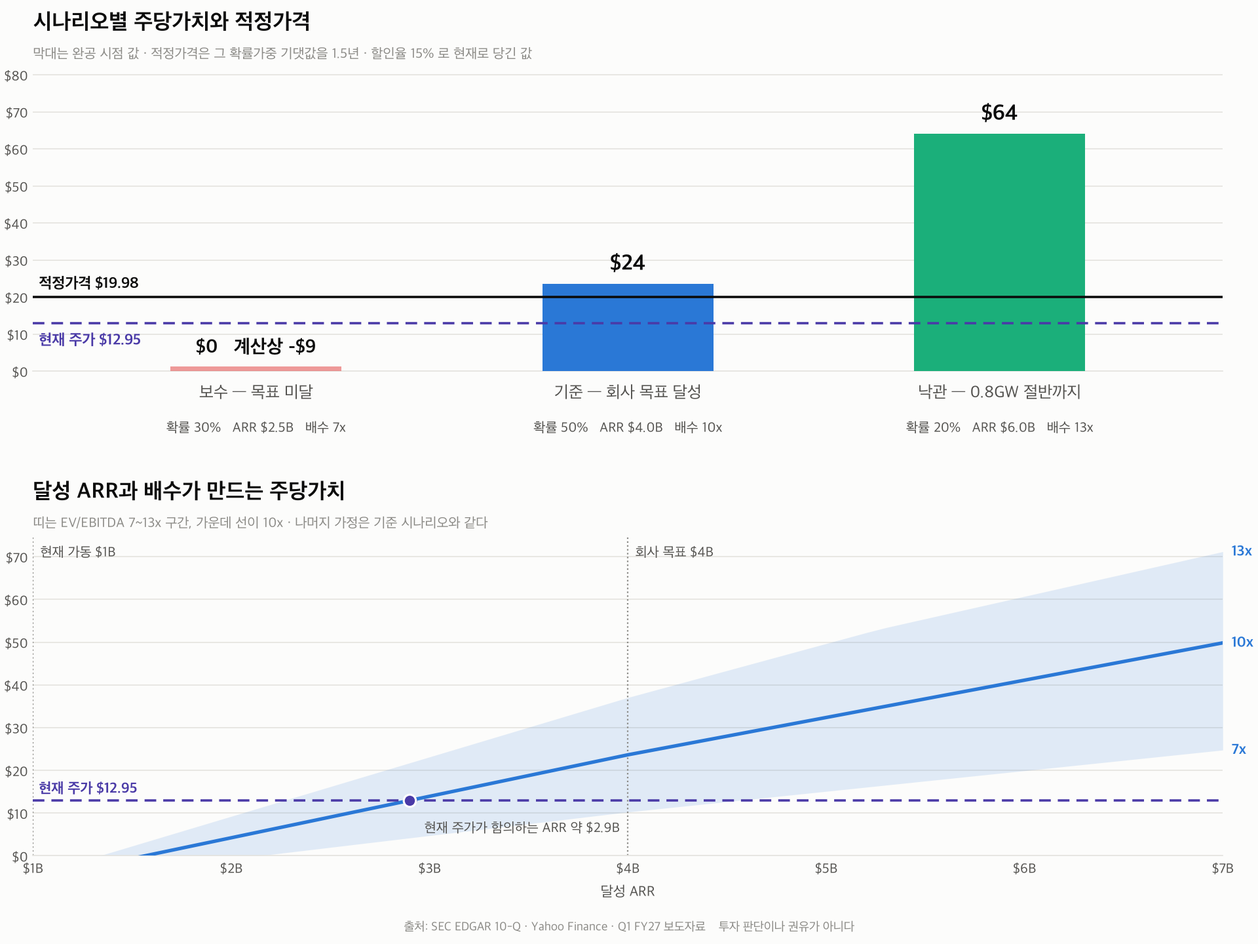
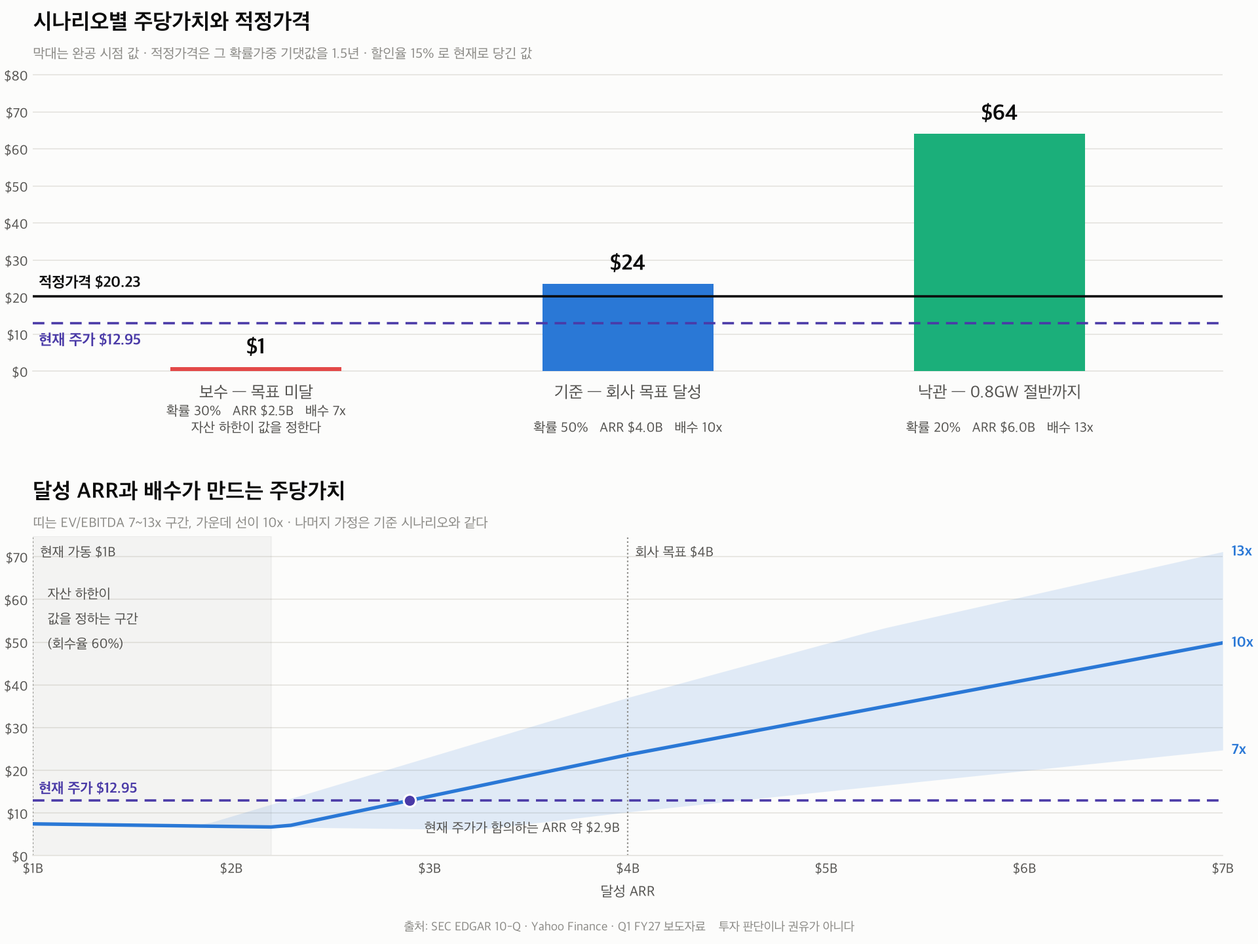
자산가치 하한을 넣는다 — 보수 시나리오의 $0 은 모델의 구멍이었다
사업이 계획대로 안 되면 EBITDA 배수는 무너지지만 데이터센터와 GPU는 남는다.
그런데 기업가치를 EBITDA x 배수로만 잡으니 보수 시나리오에서 EV $8.8B 가
순차입 $12.9B 보다 작아 자기자본이 음수로 나왔고, 유한책임이라 0으로 잘랐다.
그 $0 은 "자산이 0원"이라는 뜻이 아니라 하한을 안 넣은 결과였다.

  기업가치 = max(EBITDA x 배수, (현재 유형자산 + CAPEX) x 회수율)

회수율 기본값 60%. 토지·건물·전력 계약은 잘 받지만 중고 GPU는 수요가 식은
국면에서 특히 안 받으므로 둘의 중간쯤으로 뒀다. 공시에서 읽을 수 없는 값이라
--recovery 로 열어 두고, 58% 아래면 다시 0이 된다는 것도 README에 적는다.

  보수 $0 → $1 · 적정가격 $19.98 → $20.23

곡선에도 하한이 값을 정하는 구간을 띠로 표시한다. 확률 함의 역산은 하단이
0이 아닌 경우도 풀 수 있게 일반화했다.

diff --git a/docs/index.html b/docs/index.html
@@ -42,10 +42,10 @@
 <div class="wrap">
   <h1>IREN 매출 구조와 적정가격</h1>
   <p class="sub">비트코인 채굴에서 AI 데이터센터로 옮겨 가는 회사를, 공시된 숫자로만 뜯어본다.</p>
-  <p class="stamp">2026-11-25 12:50 UTC · 출처 SEC EDGAR · Yahoo Finance ·
+  <p class="stamp">2026-11-25 13:00 UTC · 출처 SEC EDGAR · Yahoo Finance ·
      <a href="https://github.com/gwonyongjin94-ui/IREN-Revenue-structure">저장소</a></p>
 
-  <div class="cards"><div class="card"><div class="k">주가</div><div class="v">$12.95</div><div class="n">2026-11-24</div></div><div class="card"><div class="k">시가총액</div><div class="v">$5.50B</div><div class="n">424M주</div></div><div class="card"><div class="k">EV</div><div class="v">$9.9B</div><div class="n">순차입 $4.4B 포함</div></div><div class="card"><div class="k">FY27Q1 매출</div><div class="v">$228M</div><div class="n">AI 클라우드 88%</div></div><div class="card"><div class="k">수주잔고</div><div class="v">$20.3B</div><div class="n">2026-09-30</div></div><div class="card"><div class="k">가동 ARR</div><div class="v">약 $1B</div><div class="n">목표 $4B</div></div><div class="card"><div class="k">EV / 목표 ARR</div><div class="v">2.5x</div><div class="n">목표 달성을 전제한 값</div></div><div class="card"><div class="k">남은 CAPEX</div><div class="v">$15B</div><div class="n">미확보 $6B</div></div><div class="card"><div class="k">적정가격</div><div class="v">$19.98</div><div class="n">현재가 대비 +54% · 범위 $0~$64</div></div></div>
+  <div class="cards"><div class="card"><div class="k">주가</div><div class="v">$12.95</div><div class="n">2026-11-24</div></div><div class="card"><div class="k">시가총액</div><div class="v">$5.50B</div><div class="n">424M주</div></div><div class="card"><div class="k">EV</div><div class="v">$9.9B</div><div class="n">순차입 $4.4B 포함</div></div><div class="card"><div class="k">FY27Q1 매출</div><div class="v">$228M</div><div class="n">AI 클라우드 88%</div></div><div class="card"><div class="k">수주잔고</div><div class="v">$20.3B</div><div class="n">2026-09-30</div></div><div class="card"><div class="k">가동 ARR</div><div class="v">약 $1B</div><div class="n">목표 $4B</div></div><div class="card"><div class="k">EV / 목표 ARR</div><div class="v">2.5x</div><div class="n">목표 달성을 전제한 값</div></div><div class="card"><div class="k">남은 CAPEX</div><div class="v">$15B</div><div class="n">미확보 $6B</div></div><div class="card"><div class="k">적정가격</div><div class="v">$20.23</div><div class="n">현재가 대비 +56% · 범위 $1~$64</div></div></div>
 
   <section><h2>매출 구성의 교체</h2><p>두 분기 만에 채굴이 사라지고 AI 클라우드가 매출의 88%가 됐다. 아래 패널의 비트코인 가격과 비교하면, 채굴 매출 감소분의 대부분은 가격이 아니라 스스로 전력을 돌린 결과다.</p><img src="assets/segments.png" alt="매출 구성의 교체" loading="lazy"></section><section><h2>수주잔고 $20.3B 의 구성</h2><p>잔고의 60%는 아직 개시되지 않은 임대 계약이다. 계약은 됐지만 데이터센터를 지어야 매출이 된다.</p><img src="assets/backlog.png" alt="수주잔고 $20.3B 의 구성" loading="lazy"></section><section><h2>ARR = MW(IT) x MW당 단가</h2><p>회사 목표가 함의하는 단가와 실제 체결 단가가 60% 수준으로 어긋난다. ARR 추정의 가장 큰 미지수다.</p><img src="assets/arr_model.png" alt="ARR = MW(IT) x MW당 단가" loading="lazy"></section><section><h2>자금 — $15B 중 $6B 이 열려 있다</h2><p>차입 $10B 중 3분의 2가 전환사채다. 주가가 전환가에서 멀어지면 그냥 빚으로 남는다.</p><img src="assets/funding.png" alt="자금 — $15B 중 $6B 이 열려 있다" loading="lazy"></section><section><h2>적정가격</h2><p>세 결말에 확률을 붙여 기댓값을 내고, 완공까지 1.5년을 15%로 할인한 값이다. 레버리지가 높아 가정이 조금만 움직여도 결과가 크게 흔들린다.</p><img src="assets/valuation.png" alt="적정가격" loading="lazy"></section>
 

diff --git a/valuation.py b/valuation.py
@@ -52,6 +52,17 @@ OPEX_SLOPE = 0.06   # 목표 ARR을 넘는 매출 1달러당 추가 현금비용
 
 VEST_SHARES = 36.8e6   # 스톡옵션 + RSU. 전환사채는 따로 다룬다
 
+# 자산가치 하한. 사업이 계획대로 안 되면 EBITDA 배수는 무너지지만 데이터센터와
+# GPU는 남는다. 그래서 기업가치의 바닥을 '완공 시점 유형자산 x 회수율'로 깐다.
+#
+# 회수율은 공시에서 읽을 수 없고, 이 저장소에서 확률 다음으로 결과를 크게
+# 흔드는 가정이다. 토지·건물·전력 계약은 잘 받지만 중고 GPU는 수요가 식은
+# 국면에서 특히 안 받으므로 둘의 중간쯤인 60%를 기본값으로 둔다.
+#
+# 보수 시나리오에서 이 값이 58% 아래면 주당가치가 다시 0이 된다. 그만큼
+# 예민하므로 --recovery 로 바꿔 볼 수 있게 열어 둔다.
+ASSET_RECOVERY = 0.60
+
 # 시나리오 값은 전부 '완공 시점' 값이다. 거기까지 가는 데 걸리는 시간을 현재로
 # 당겨와야 오늘의 적정가격이 된다. 회사는 $4B ARR 달성을 2027년 1~2월로 제시
 # 했지만 그건 0.3GW 프로그램 얘기고, 그 매출이 온전히 한 해를 돌아 실적으로
@@ -107,10 +118,13 @@ class Result:
     shares: float
     per_share: float
     converts_dilute: bool
+    floor_bound: bool = False   # 기업가치가 EBITDA가 아니라 자산 하한으로 정해졌나
 
 
 def evaluate(s: Scenario, net_debt_now: float, shares_now: float,
-             price: float, converts: tuple[float, float]) -> Result:
+             price: float, converts: tuple[float, float],
+             assets_now: float = 0.0,
+             recovery: float = ASSET_RECOVERY) -> Result:
     opex = OPEX_AT_TARGET + max(s.arr - disc.ARR_TARGET.value, 0) * OPEX_SLOPE
     ebitda = s.arr * s.margin - opex
 
@@ -121,7 +135,13 @@ def evaluate(s: Scenario, net_debt_now: float, shares_now: float,
     shares = shares_now + VEST_SHARES + (s.equity_raise / price if price else 0)
 
     principal, conv_shares = converts
-    enterprise = ebitda * s.multiple
+    # 계속기업 가치와 청산 바닥 중 큰 쪽. 둘 중 무엇이 값을 정했는지 남긴다 —
+    # 바닥이 이겼다는 건 "이 시나리오에서는 사업이 아니라 자산이 전부"라는 뜻이고,
+    # 그 결론은 회수율 가정 하나에 매달려 있으므로 드러나야 한다.
+    going = ebitda * s.multiple
+    floor = (assets_now + s.capex) * recovery
+    enterprise = max(going, floor)
+    floor_bound = floor > going
     equity = enterprise - net_debt
     per_share = equity / shares if shares else 0.0
 
@@ -134,7 +154,8 @@ def evaluate(s: Scenario, net_debt_now: float, shares_now: float,
         shares += conv_shares
         per_share = equity / shares
 
-    return Result(s, ebitda, net_debt, enterprise, equity, shares, per_share, dilute)
+    return Result(s, ebitda, net_debt, enterprise, equity, shares, per_share,
+                  dilute, floor_bound)
 
 
 def discount(value: float) -> float:
@@ -163,22 +184,21 @@ def implied_downside(results: list[Result], price: float) -> float:
     보수 시나리오의 확률만 움직이고, 나머지 둘의 상대 비중은 그대로 둔다.
     그러면 미지수가 하나라 바로 풀린다.
     """
-    downside = results[0]
+    down = max(results[0].per_share, 0.0)
     rest = results[1:]
     weight = sum(r.scenario.prob for r in rest)
     if weight <= 0:
         return float("nan")
-    upside = sum(max(r.per_share, 0) * r.scenario.prob for r in rest) / weight
-    if upside <= 0:
+    up = sum(max(r.per_share, 0) * r.scenario.prob for r in rest) / weight
+    if up <= down:
         return float("nan")
-    # price = (1-p) x upside 를 할인한 값. downside 의 주당가치는 0 이므로 빠진다
-    share_of_upside = price / discount(upside)
-    return max(0.0, min(1.0, 1 - share_of_upside)) if max(downside.per_share, 0) == 0 \
-        else float("nan")
+    # discount(p x down + (1-p) x up) = price 를 p 에 대해 푼다
+    target = price * (1 + DISCOUNT_RATE) ** HORIZON_YEARS
+    return max(0.0, min(1.0, (target - up) / (down - up)))
 
 
 def per_share_curve(arrs, multiple, base: Scenario, net_debt_now, shares_now,
-                    price, converts):
+                    price, converts, assets_now=0.0, recovery=ASSET_RECOVERY):
     out = []
     for arr in arrs:
         # 곡선 위에서는 CAPEX가 ARR과 같이 움직인다. 자본집약도(ARR 1달러당
@@ -187,12 +207,13 @@ def per_share_curve(arrs, multiple, base: Scenario, net_debt_now, shares_now,
         s = Scenario(base.name, arr, base.margin, multiple, capex,
                      base.prepay_share, base.equity_raise, base.prob,
                      base.color, "")
-        out.append(evaluate(s, net_debt_now, shares_now, price, converts).per_share)
+        out.append(evaluate(s, net_debt_now, shares_now, price, converts,
+                            assets_now, recovery).per_share)
     return out
 
 
 def draw(results, price, price_date, net_debt_now, shares_now, converts,
-         multiples, out_path):
+         multiples, out_path, assets_now=0.0, recovery=ASSET_RECOVERY):
     fig, (top, bottom) = idata.figure([1.0, 1.05], height=9.0)
 
     # --- 위: 시나리오 ----------------------------------------------------
@@ -217,7 +238,8 @@ def draw(results, price, price_date, net_debt_now, shares_now, converts,
                      color=idata.INK_PRIMARY)
         top.annotate(idata.tex_safe(
             f"확률 {r.scenario.prob*100:,.0f}%   ARR ${r.scenario.arr/B:,.1f}B"
-            f"   배수 {r.scenario.multiple:,.0f}x"),
+            f"   배수 {r.scenario.multiple:,.0f}x"
+            + ("\n자산 하한이 값을 정한다" if r.floor_bound else "")),
             (x, 0), xycoords=("data", "axes fraction"), xytext=(0, -42),
             textcoords="offset points", ha="center", fontsize=9.5,
             color=idata.INK_SECONDARY, annotation_clip=False)
@@ -248,7 +270,7 @@ def draw(results, price, price_date, net_debt_now, shares_now, converts,
     arrs = [x * 1e8 for x in range(10, 71)]
     xs_b = [a / B for a in arrs]
     curves = {m: per_share_curve(arrs, m, base, net_debt_now, shares_now,
-                                 price, converts)
+                                 price, converts, assets_now, recovery)
               for m in multiples}
     lo, mid, hi = (curves[m] for m in sorted(curves))
 
@@ -265,6 +287,23 @@ def draw(results, price, price_date, net_debt_now, shares_now, converts,
         bottom.annotate(name, (xs_b[-1], values[-1]), xytext=(6, -3),
                         textcoords="offset points", fontsize=10,
                         color=idata.CLOUD_COLOR, fontweight="bold")
+
+    bound = [evaluate(Scenario(base.name, a, base.margin, sorted(multiples)[1],
+                               base.capex * a / base.arr, base.prepay_share,
+                               base.equity_raise, base.prob, base.color, ""),
+                      net_debt_now, shares_now, price, converts,
+                      assets_now, recovery).floor_bound
+             for a in arrs]
+    if any(bound):
+        edge = xs_b[max(i for i, b in enumerate(bound) if b)]
+        bottom.axvspan(xs_b[0], edge, color=idata.INK_MUTED, alpha=0.07, zorder=1)
+        # 라벨은 띠 안쪽 빈 곳에 세로로 앉힌다. 띠 아래에 가로로 깔면 축 밖으로
+        # 삐져나가 잘린다
+        bottom.annotate(idata.tex_safe(
+            f"자산 하한이\n값을 정하는 구간\n(회수율 {recovery*100:,.0f}%)"),
+            (xs_b[0], 0.86), xycoords=("data", "axes fraction"),
+            xytext=(10, 0), textcoords="offset points", ha="left", va="top",
+            fontsize=9.5, color=idata.INK_SECONDARY, linespacing=1.5)
 
     bottom.axhline(price, color=idata.PRICE_COLOR, linewidth=1.6,
                    linestyle=(0, (5, 3)), zorder=5)
@@ -313,6 +352,8 @@ def main():
     ap.add_argument("--refresh", action="store_true")
     ap.add_argument("--multiples", default="7,10,13",
                     help="아래 패널에 그릴 EV/EBITDA 배수")
+    ap.add_argument("--recovery", type=float, default=ASSET_RECOVERY,
+                    help="자산 하한에 쓰는 회수율 (0~1)")
     ap.add_argument("--out", default=str(idata.OUT_DIR / "valuation.png"))
     args = ap.parse_args()
 
@@ -326,11 +367,13 @@ def main():
     conv_shares = dil.get("Convertible notes", 0.0)
     converts = (conv_principal, conv_shares)
 
-    results = [evaluate(s, bs["net_debt"], shares_now, price, converts)
+    assets_now = bs["ppe"]
+    results = [evaluate(s, bs["net_debt"], shares_now, price, converts,
+                        assets_now, args.recovery)
                for s in scenarios()]
     multiples = [float(x) for x in args.multiples.split(",")]
     draw(results, price, price_date, bs["net_debt"], shares_now, converts,
-         multiples, args.out)
+         multiples, args.out, assets_now, args.recovery)
 
     cap = price * shares_now
     ev = cap + bs["net_debt"]
@@ -350,7 +393,8 @@ def main():
     print(f"  평균 전환가       ${conv_principal/conv_shares:,.2f}"
           f"  (현재 주가의 {conv_principal/conv_shares/price:,.1f}배)")
 
-    print(f"\n시나리오 (현금 영업비용 목표 구간 ${OPEX_AT_TARGET/B:,.2f}B/년 가정)")
+    print(f"\n시나리오 (현금 영업비용 목표 구간 ${OPEX_AT_TARGET/B:,.2f}B/년, "
+          f"자산 회수율 {args.recovery*100:,.0f}% 가정)")
     for r in results:
         s = r.scenario
         print(f"\n  {s.name}")
@@ -358,7 +402,11 @@ def main():
               f"배수 {s.multiple:,.1f}x · CAPEX ${s.capex/B:,.0f}B · "
               f"선급금 {s.prepay_share*100:,.0f}% · 증자 ${s.equity_raise/B:,.1f}B")
         print(f"    자본집약도 ARR 1달러당 ${s.capex/s.arr:,.2f} · "
-              f"자기자본이 0이 되는 배수 {r.net_debt/r.ebitda:,.1f}x")
+              f"계속기업 기준 자기자본이 0이 되는 배수 {r.net_debt/r.ebitda:,.1f}x")
+        floor = (assets_now + s.capex) * args.recovery
+        print(f"    계속기업 EV ${r.ebitda*s.multiple/B:,.1f}B vs "
+              f"자산 하한 ${floor/B:,.1f}B"
+              f"  ({'하한 적용' if r.floor_bound else '계속기업 적용'})")
         print(f"    EBITDA ${r.ebitda/B:,.2f}B → EV ${r.enterprise/B:,.1f}B "
               f"− 순차입 ${r.net_debt/B:,.1f}B = 자기자본 ${r.equity/B:,.1f}B")
         print(f"    주식수 {r.shares/1e6:,.0f}M → 주당 ${r.per_share:,.2f} "

diff --git a/snapshot.py b/snapshot.py
@@ -33,7 +33,8 @@ def build(refresh: bool = False) -> str:
     conv_principal = sum(d.principal for d in debts if d.kind == "전환사채")
     conv_shares = dil.get("Convertible notes", 0.0)
     converts = (conv_principal, conv_shares)
-    results = [val.evaluate(s, bs["net_debt"], shares, price, converts)
+    results = [val.evaluate(s, bs["net_debt"], shares, price, converts,
+                                bs["ppe"])
                for s in val.scenarios()]
     band = sorted(max(r.per_share, 0) for r in results)
     fair = val.fair_value(results)

diff --git a/build_site.py b/build_site.py
@@ -119,7 +119,8 @@ def build(repo: str, refresh: bool = False) -> str:
 
     converts = (sum(d.principal for d in debts if d.kind == "전환사채"),
                 dil.get("Convertible notes", 0.0))
-    results = [val.evaluate(s, bs["net_debt"], shares, price, converts)
+    results = [val.evaluate(s, bs["net_debt"], shares, price, converts,
+                                bs["ppe"])
                for s in val.scenarios()]
     band = sorted(max(r.per_share, 0) for r in results)
     fair = val.fair_value(results)

diff --git a/README.md b/README.md
@@ -213,10 +213,17 @@ FY2027Q1 한 분기에 D&A $148M, 주식보상 $106M, 영업손실 $186M, 순손
 
 ```
 EBITDA       = 달성 ARR x 매출총이익률 − 현금 영업비용
+기업가치     = max(EBITDA x 배수,  (현재 유형자산 + CAPEX) x 회수율)
 순차입(완공) = 현재 순차입 + CAPEX x (1 − 선급금 비중) − 증자
-자기자본     = EBITDA x 배수 − 순차입(완공)
+자기자본     = 기업가치 − 순차입(완공)
 주당가치     = 자기자본 / (현재 주식수 + 증자 주식수 + 베스팅 + 전환)
 ```
+
+둘째 줄의 `max` 가 자산가치 하한이다. 사업이 계획대로 안 되면 EBITDA 배수는
+무너지지만 데이터센터와 GPU는 남는다. 그래서 기업가치의 바닥을 완공 시점
+유형자산에 회수율을 곱한 값으로 깐다. 회수율 기본값은 **60%** — 토지·건물·
+전력 계약은 잘 받지만 중고 GPU는 수요가 식은 국면에서 특히 안 받으므로 둘의
+중간쯤으로 뒀다.
 
 현금 영업비용은 Q1 FY27 실적 $118M 에 회사가 준 다음 분기 증가폭 가이던스
 ($50~60M)를 더해 연율화한 **약 $0.69B** 을 $4B ARR 구간의 기준으로 쓴다.
@@ -225,20 +232,25 @@ EBITDA       = 달성 ARR x 매출총이익률 − 현금 영업비용
 
 | | |
 |---|---:|
-| **적정가격** | **$19.98** |
+| **적정가격** | **$20.23** |
 | 현재 주가 (2026-11-24) | $12.95 |
-| 차이 | **+54%** |
+| 차이 | **+56%** |
 
-세 결말에 확률(30% / 50% / 20%)을 붙여 기댓값 $24.64 를 내고, 완공까지
+세 결말에 확률(30% / 50% / 20%)을 붙여 기댓값 $24.95 를 내고, 완공까지
 **1.5년**을 **할인율 15%** 로 당긴 값이다. 1.5년은 $4B ARR이 한 해를 온전히
 돌아 실적으로 확인되는 시점(FY2028 중반)까지의 거리다.
 
-단, 이 숫자 하나만 들고 가면 안 된다. 세 결말의 주당가치가 **$0 / $24 / $64**
-로 벌어져 있어서, 적정가격 $19.98 은 "이 근처에서 거래될 값"이 아니라
+단, 이 숫자 하나만 들고 가면 안 된다. 세 결말의 주당가치가 **$1 / $24 / $64**
+로 벌어져 있어서, 적정가격 $20.23 은 "이 근처에서 거래될 값"이 아니라
 **서로 다른 결말들의 평균**이다. 실제 결과는 거의 확실히 저 셋 중 하나에
-가깝지, $20 근처가 아니다. 확률 가정이 결과를 지배한다는 뜻이기도 하다 —
-보수 확률만 30%에서 50%로 올리면(나머지 둘의 비중은 그대로) 적정가격은
-$14.3 으로 내려간다.
+가깝지, $20 근처가 아니다.
+
+결과를 가장 크게 흔드는 건 확률이다. 보수 확률만 올려 보면 이렇다
+(나머지 둘의 비중은 그대로).
+
+| 보수 확률 | 30% | 40% | 50% |
+|---|---:|---:|---:|
+| 적정가격 | $20.23 | $17.46 | $14.69 |
 
 ### 시나리오
 
@@ -252,18 +264,48 @@ $14.3 으로 내려간다.
 | 증자 | — | $2B | $2B |
 | EV/EBITDA 배수 | 7.0x | 10.0x | 13.0x |
 | EBITDA | $1.26B | $2.75B | $4.35B |
+| 계속기업 EV (EBITDA x 배수) | $8.8B | $27.5B | $56.5B |
+| 자산 하한 (회수율 60%) | **$13.4B** | $16.4B | $20.6B |
+| 기업가치 = 둘 중 큰 값 | $13.4B | $27.5B | $56.5B |
 | 완공 시 순차입 | $12.9B | $12.9B | $15.6B |
-| **주당가치** | **$0** (계산상 −$9) | **$24** | **$64** |
+| **주당가치** | **$1** | **$24** | **$64** |
+
+보수 시나리오에서는 **자산 하한이 값을 정한다.** 계속기업 가치 $8.8B 가
+순차입 $12.9B 보다 작아 계산상 주당 −$9 가 나오는데, 그 구간에서는 EBITDA가
+아니라 남은 자산이 기업가치를 결정하기 때문이다. 주주는 유한책임이라
+음수까지 책임지지 않으므로, 하한이 없으면 이 칸은 그냥 $0 이 된다.
 
 현재 주가는 **$12.95** (2026-11-24)다.
 
+### 회수율은 결과를 뒤집는다
+
+하한을 넣자마자 새 가정이 하나 생겼고, 그 가정은 공시에서 읽을 수 없다.
+회수율을 움직여 보면 보수 시나리오가 통째로 바뀐다.
+
+| 회수율 | 40% | 50% | 55% | **60%** | 70% | 80% |
+|---|---:|---:|---:|---:|---:|---:|
+| 보수 시나리오 주당가치 | $0 | $0 | $0 | **$1** | $6 | $11 |
+| 적정가격 | $19.98 | $19.98 | $19.98 | **$20.23** | $21.41 | $22.59 |
+
+**58% 아래면 하한이 순차입에도 못 미쳐 다시 0이다.** 즉 이 회사의 하방은
+"자산이 얼마에 팔리느냐"에 통째로 달려 있는데, 그 숫자는 아무도 모른다.
+
+다만 적정가격 자체는 별로 안 움직인다 ($19.98 ~ $22.59). 하단이 30% 확률로만
+가중되기 때문이다. 위의 확률 표와 비교하면 **확률 가정이 회수율 가정보다
+5배쯤 더 민감하다.**
+
+```bash
+./.venv/bin/python valuation.py --recovery 0.5
+```
+
 ### 읽는 법
 
-**범위가 $0 ~ $64 로 벌어지는 게 이 분석의 결론이다.** 중앙값을 가리키는 게
+**범위가 $1 ~ $64 로 벌어지는 게 이 분석의 결론이다.** 중앙값을 가리키는 게
 아니라, 가정이 조금 움직이면 결과가 크게 움직인다는 사실 자체가 결론이다.
 레버리지가 그 폭을 만든다.
 
-각 시나리오에서 **자기자본이 0이 되는 배수**를 같이 계산하면 구조가 보인다.
+각 시나리오에서 **계속기업 기준으로 자기자본이 0이 되는 배수**를 같이
+계산하면 구조가 보인다 (자산 하한을 빼고 본 값이다).
 
 | | 보수 | 기준 | 낙관 |
 |---|---:|---:|---:|
@@ -271,7 +313,9 @@ $14.3 으로 내려간다.
 
 목표를 달성하면 4.7x만 받아도 주식에 가치가 남는다. 목표에 못 미치면 10.3x를
 받아야 겨우 0이다. ARR이 빠질 때 EBITDA는 줄지만 이미 쓴 CAPEX에서 나온 차입은
-그대로 남기 때문이다. **하방이 두꺼운 비대칭**이고, 이게 이 주식의 성격이다.
+그대로 남기 때문이다. 자산 하한이 그 아래를 받쳐 주지만, 받쳐 주는 높이가
+회수율 가정 하나에 매달린다. **하방이 두꺼운 비대칭**이고, 이게 이 주식의
+성격이다.
 
 ### 현재 주가가 함의하는 것
 
@@ -288,9 +332,9 @@ $14.3 으로 내려간다.
   같아진다
 - 배수를 10x 로 고정하면, 현재가는 달성 ARR **약 $2.9B** 을 함의한다 —
   회사 목표 $4B 의 73%
-- 확률 쪽으로 풀면, 현재가는 **'목표 미달' 확률 55%** 를 함의한다. 이 저장소가
-  쓴 30%보다 25%p 높다. 적정가격 $19.98 과 현재가 $12.95 의 차이는 전부
-  이 25%p 에서 나온다
+- 확률 쪽으로 풀면, 현재가는 **'목표 미달' 확률 56%** 를 함의한다. 이 저장소가
+  쓴 30%보다 26%p 높다. 적정가격 $20.23 과 현재가 $12.95 의 차이는 전부
+  이 26%p 에서 나온다
 
 바꿔 말하면 시장은 **$4B ARR 달성을 거의 믿지 않거나, 믿더라도 $6B 조달
 과정의 희석을 크게 보고 있다**.
@@ -308,9 +352,10 @@ $14.3 으로 내려간다.
   그 가정이 결과를 지배한다. 특히 시나리오 확률(30/50/20)은 공시에서 끌어낼 수
   없는, 이 저장소에서 가장 주관적인 입력이다. 그래서 현재 주가가 함의하는
   확률을 항상 나란히 찍는다
-- **자산가치 하한을 반영하지 않는다.** 유형자산이 $12.3B 인데 보수 시나리오의
-  EV는 $8.8B 이다. 실제로는 자산 매각가치가 바닥을 만들 수 있지만, 중고 GPU와
-  개조된 채굴장의 회수가치를 공시에서 읽을 방법이 없어 모델에 넣지 않았다
+- **자산 회수율을 검증할 방법이 없다.** 자산가치 하한은 넣었지만, 중고 GPU와
+  개조된 채굴장이 실제로 얼마에 팔리는지는 공시에 없다. 60%는 가정이고,
+  58% 아래면 보수 시나리오의 주당가치가 0으로 돌아간다. `--recovery` 로
+  바꿔 보라는 것 말고 더 해 줄 말이 없다
 - **MW 단위 실적을 추적하지 않는다.** 회사가 사이트별 MW를 공시하지 않는다.
   Horizon 1~4, Sweetwater 1~2, Childress 등은 정성 서술만 있다
 - **전환가는 역산한 평균이다.** 원금 ÷ 희석 주식수로 구한 값이고, 개별 사채의

diff --git a/SNAPSHOT.md b/SNAPSHOT.md
@@ -1,6 +1,6 @@
 # 스냅샷
 
-자동 생성 — 2026-11-25 12:50 UTC
+자동 생성 — 2026-11-25 13:00 UTC
 
 ## 매출 (FY27Q1, 2026-09-30)
 
@@ -47,8 +47,8 @@
 | EV / 목표 ARR | 2.5x |
 | EV / 수주잔고 | 0.49x |
 | 평균 전환가 | $53 (희석 127M주) |
-| **적정가격** | **$19.98** (+54%) |
-| 주당가치 범위 | $0 ~ $64 (확률 30% / 50% / 20%) |
-| 주가가 함의하는 '목표 미달' 확률 | 55% |
+| **적정가격** | **$20.23** (+56%) |
+| 주당가치 범위 | $1 ~ $64 (확률 30% / 50% / 20%) |
+| 주가가 함의하는 '목표 미달' 확률 | 56% |
 
 숫자의 근거와 한계는 [README](README.md) 참조. 투자 판단이나 권유가 아니다.
